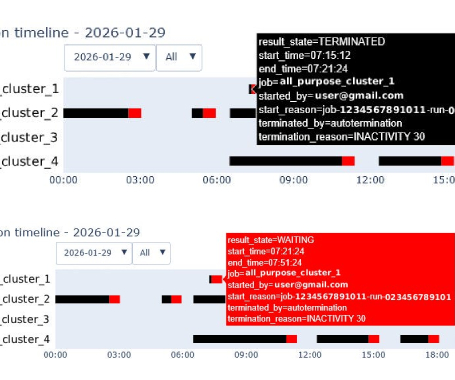
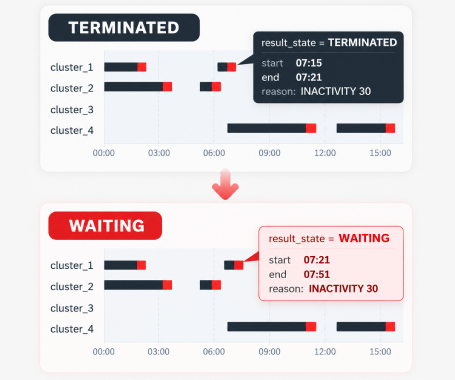
upd

diff --git a/public/features/index.html b/public/features/index.html
@@ -11,7 +11,7 @@
   <link rel="icon" href="/favicon.ico" sizes="32x32" />
   <link rel="icon" href="/img/favicon.svg" type="image/svg+xml" />
   <link rel="apple-touch-icon" href="/apple-touch-icon.png" />
-  <link rel="stylesheet" href="/styles.css?v=054" />
+  <link rel="stylesheet" href="/styles.css?v=056" />
   <script src="/menu.js?v=003" defer></script>
   <meta property="og:type" content="website" />
   <meta property="og:site_name" content="FinOpsWay" />
@@ -73,6 +73,7 @@
       <p class="feature-cta"><strong>Get started:</strong> <a href="/onboarding/">Connect your workspace</a> or explore <a href="#other-features-title">all FinOpsWay features</a>.</p>
       <section class="feature-download" aria-labelledby="feature-download-title"><h2 id="feature-download-title">Add FinOpsWay to your browser</h2><p>Install the free extension from your browser’s store. No FinOpsWay account is required.</p><div class="download-grid"><a class="download-card" href="https://chromewebstore.google.com/detail/finopsway-costs/lpfecokigmjdmdcfleiebiainkndhooi" target="_blank" rel="noopener"><span class="browser-icon"><img src="/img/google_chrome.svg" alt="" /></span><span class="download-card-copy"><span class="download-card-label">Available for</span><strong>Google Chrome</strong><span class="download-card-action">Get the extension <span aria-hidden="true">↗</span></span></span></a><a class="download-card" href="https://chromewebstore.google.com/detail/finopsway-costs/lpfecokigmjdmdcfleiebiainkndhooi" target="_blank" rel="noopener"><span class="browser-icon"><img src="/img/edge.svg" alt="" /></span><span class="download-card-copy"><span class="download-card-label">Available for</span><strong>Microsoft Edge</strong><span class="download-card-action">Get the extension <span aria-hidden="true">↗</span></span></span></a><a class="download-card" href="https://addons.mozilla.org/firefox/addon/finopsway-costs/" target="_blank" rel="noopener"><span class="browser-icon"><img src="/img/firefox.svg" alt="" /></span><span class="download-card-copy"><span class="download-card-label">Available for</span><strong>Mozilla Firefox</strong><span class="download-card-action">Get the extension <span aria-hidden="true">↗</span></span></span></a></div><p class="note">Microsoft Edge uses the Chrome Web Store listing.</p></section>
     </div>
+    <aside class="feature-sidebar" aria-label="All FinOpsWay features"><p class="feature-sidebar-title">All features</p><nav><a href="/features/" aria-current="page">Cost Banner</a><a href="/features/databricks-cluster-costs/">Cluster Costs</a><a href="/features/databricks-sql-warehouse-costs/">SQL Warehouse Costs</a><a href="/features/databricks-job-costs/">Job and Pipeline Costs</a><a href="/features/databricks-job-cluster-costs/">Job Cluster Costs</a><a href="/features/databricks-job-run-costs/">Job Run Costs</a><a href="/features/databricks-notebook-costs/">Notebook Costs</a><a href="/features/databricks-apps-costs/">Apps Costs</a><a href="/features/databricks-lakebase-costs/">Lakebase Costs</a><a href="/features/databricks-genie-agent-usage/">Genie Agent Costs</a></nav></aside>
   </main>
   <footer class="footer"><div class="bar"><div class="footer-id"><span class="wordmark small"><img class="wm-s" src="/img/FinOpsWay_logo.png" width="574" height="120" alt="FinOpsWay" /></span></div><nav class="nav"><a href="/features/">Features</a><a href="/security/">Security</a><a href="/cost-methodology/">Cost methodology</a><a href="/privacy/">Privacy policy</a></nav></div><p class="legal">Not affiliated with Databricks, Inc. Trademarks belong to their owners.</p></footer>
 </body>

diff --git a/public/styles.css b/public/styles.css
@@ -1168,8 +1168,21 @@ picture { display: contents; }
 .table-note { margin-top: 16px; color: var(--fg-soft); font-size: 14px; line-height: 1.5; }
 .feature-cta { margin: 20px 0 0; color: var(--fg-soft); font-size: 15px; }
 .feature-cta a { font-weight: 800; }
+.article-page.feature-page { max-width: calc(1120px + var(--pad) * 2); display: grid; grid-template-columns: minmax(0, 1fr) 248px; column-gap: clamp(32px, 5vw, 64px); align-items: start; }
+.feature-page .article-hero { grid-column: 1 / -1; }
+.feature-page .article-body { grid-column: 1; min-width: 0; }
+.feature-sidebar { position: sticky; top: 104px; grid-column: 2; grid-row: 2; max-height: calc(100vh - 124px); overflow-y: auto; padding: 20px; border-radius: 16px; background: var(--brand); color: #fff; }
+.feature-sidebar-title { margin: 0 0 12px; font-size: 13px; font-weight: 800; letter-spacing: .08em; text-transform: uppercase; }
+.feature-sidebar nav { display: grid; gap: 2px; }
+.feature-sidebar a { display: block; padding: 7px 9px; border-radius: 7px; color: rgb(255 255 255 / 84%); font-size: 14px; font-weight: 650; line-height: 1.3; text-decoration: none; }
+.feature-sidebar a:hover, .feature-sidebar a:focus-visible { background: rgb(255 255 255 / 14%); color: #fff; }
+.feature-sidebar a[aria-current="page"] { background: #fff; color: var(--brand-ink); }
 @media (max-width: 680px) {
   .feature-grid { grid-template-columns: 1fr; }
+}
+@media (max-width: 960px) {
+  .feature-page { display: block; }
+  .feature-sidebar { display: none; }
 }
 
 /* Articles */
@@ -1201,6 +1214,7 @@ picture { display: contents; }
 .article-body figure { margin: 36px 0; }
 .article-body figure img { display: block; width: 70%; height: auto; margin-inline: auto; border: 1px solid var(--border); border-radius: 12px; background: var(--pale); }
 .article-body figcaption { margin-top: 9px; color: var(--fg-soft); font-size: 14px; line-height: 1.4; }
+.feature-page .article-body figcaption { text-align: center; }
 .article-body pre { overflow-x: auto; margin: 24px 0; padding: 18px; border-radius: 10px; background: #172821; color: #f1f7f2; font-size: 14px; line-height: 1.55; }
 .article-body pre code { margin: 0; padding: 0; background: none; color: inherit; }
 .article-body ul { margin: 0; padding-left: 23px; }

diff --git a/public/guides/all-purpose-cluster-monitoring/index.html b/public/guides/all-purpose-cluster-monitoring/index.html
@@ -7,7 +7,7 @@
   <title>Monitor All-Purpose Cluster Idle Time | FinOpsWay</title>
   <meta name="description" content="Use Databricks cluster events to find all-purpose clusters that spend too long waiting for auto termination." />
   <link rel="icon" href="/favicon.ico" sizes="32x32" /><link rel="icon" href="/img/favicon.svg" type="image/svg+xml" /><link rel="apple-touch-icon" href="/apple-touch-icon.png" />
-  <link rel="stylesheet" href="../../styles.css?v=054" /><script src="../../menu.js?v=003" defer></script>
+  <link rel="stylesheet" href="../../styles.css?v=056" /><script src="../../menu.js?v=003" defer></script>
   <link rel="canonical" href="https://finopsway.com/guides/all-purpose-cluster-monitoring/" /><meta name="robots" content="index, follow, max-image-preview:large" />
   <meta property="og:type" content="article" /><meta property="og:site_name" content="FinOpsWay" /><meta property="og:locale" content="en_US" /><meta property="og:url" content="https://finopsway.com/guides/all-purpose-cluster-monitoring/" /><meta property="og:title" content="Databricks Cost Optimization: Monitor All-Purpose Cluster Idle Time" /><meta property="og:description" content="Use Databricks cluster events to find scheduled jobs on all-purpose clusters, expose idle timeout cost and prevent the pattern with policies." /><meta property="og:image" content="https://finopsway.com/guides/all-purpose-cluster-monitoring/images/original_1.jpg" /><meta property="og:image:alt" content="Databricks all-purpose cluster cost comparison and timeline" /><meta property="article:published_time" content="2026-02-02" /><meta property="article:modified_time" content="2026-10-05" /><meta property="article:author" content="https://www.linkedin.com/in/protmaks/" />
   <meta name="twitter:card" content="summary_large_image" /><meta name="twitter:title" content="Databricks Cost Optimization: Monitor All-Purpose Cluster Idle Time" /><meta name="twitter:description" content="Find scheduled jobs on all-purpose clusters, expose idle timeout cost and prevent the pattern with policies." /><meta name="twitter:image" content="https://finopsway.com/guides/all-purpose-cluster-monitoring/images/original_1.jpg" />

diff --git a/public/guides/databricks-cost-transparency/index.html b/public/guides/databricks-cost-transparency/index.html
@@ -7,7 +7,7 @@
   <title>Databricks Cost Transparency Without Exposing SQL | FinOpsWay</title>
   <meta name="description" content="Databricks cost data can be shared more broadly while keeping query text protected by default." />
   <link rel="icon" href="/favicon.ico" sizes="32x32" /><link rel="icon" href="/img/favicon.svg" type="image/svg+xml" /><link rel="apple-touch-icon" href="/apple-touch-icon.png" />
-  <link rel="stylesheet" href="../../styles.css?v=054" /><script src="../../menu.js?v=003" defer></script>
+  <link rel="stylesheet" href="../../styles.css?v=056" /><script src="../../menu.js?v=003" defer></script>
   <link rel="canonical" href="https://finopsway.com/guides/databricks-cost-transparency/" /><meta name="robots" content="index, follow, max-image-preview:large" />
   <meta property="og:type" content="article" /><meta property="og:site_name" content="FinOpsWay" /><meta property="og:locale" content="en_US" /><meta property="og:url" content="https://finopsway.com/guides/databricks-cost-transparency/" /><meta property="og:title" content="Databricks Cost Transparency Without Exposing SQL" /><meta property="og:description" content="Share Databricks cost data with engineers while keeping query text protected by default." /><meta property="og:image" content="https://finopsway.com/guides/databricks-cost-transparency/images/original_1.jpg" /><meta property="og:image:alt" content="Databricks cost transparency dashboard" /><meta property="article:published_time" content="2026-09-15" /><meta property="article:modified_time" content="2026-10-05" /><meta property="article:author" content="https://www.linkedin.com/in/protmaks/" />
   <meta name="twitter:card" content="summary_large_image" /><meta name="twitter:title" content="Databricks Cost Transparency Without Exposing SQL" /><meta name="twitter:description" content="Share Databricks cost data with engineers while keeping query text protected by default." /><meta name="twitter:image" content="https://finopsway.com/guides/databricks-cost-transparency/images/original_1.jpg" />

diff --git a/public/features/databricks-lakebase-costs/index.html b/public/features/databricks-lakebase-costs/index.html
@@ -11,7 +11,7 @@
   <link rel="icon" href="/favicon.ico" sizes="32x32" />
   <link rel="icon" href="/img/favicon.svg" type="image/svg+xml" />
   <link rel="apple-touch-icon" href="/apple-touch-icon.png" />
-  <link rel="stylesheet" href="/styles.css?v=054" />
+  <link rel="stylesheet" href="/styles.css?v=056" />
   <script src="/menu.js?v=003" defer></script>
   <meta property="og:type" content="website" />
   <meta property="og:site_name" content="FinOpsWay" />
@@ -121,6 +121,7 @@
         <p class="note">Microsoft Edge uses the Chrome Web Store listing.</p>
       </section>
     </div>
+    <aside class="feature-sidebar" aria-label="All FinOpsWay features"><p class="feature-sidebar-title">All features</p><nav><a href="/features/">Cost Banner</a><a href="/features/databricks-cluster-costs/">Cluster Costs</a><a href="/features/databricks-sql-warehouse-costs/">SQL Warehouse Costs</a><a href="/features/databricks-job-costs/">Job and Pipeline Costs</a><a href="/features/databricks-job-cluster-costs/">Job Cluster Costs</a><a href="/features/databricks-job-run-costs/">Job Run Costs</a><a href="/features/databricks-notebook-costs/">Notebook Costs</a><a href="/features/databricks-apps-costs/">Apps Costs</a><a href="/features/databricks-lakebase-costs/" aria-current="page">Lakebase Costs</a><a href="/features/databricks-genie-agent-usage/">Genie Agent Costs</a></nav></aside>
   </main>
   <footer class="footer"><div class="bar"><div class="footer-id"><span class="wordmark small"><img class="wm-s" src="/img/FinOpsWay_logo.png" width="574" height="120" alt="FinOpsWay" /></span></div><nav class="nav"><a href="/features/">Features</a><a href="/security/">Security</a><a href="/cost-methodology/">Cost methodology</a><a href="/privacy/">Privacy policy</a></nav></div><p class="legal">Not affiliated with Databricks, Inc. Trademarks belong to their owners.</p></footer>
 </body>

diff --git a/public/features/databricks-apps-costs/index.html b/public/features/databricks-apps-costs/index.html
@@ -11,7 +11,7 @@
   <link rel="icon" href="/favicon.ico" sizes="32x32" />
   <link rel="icon" href="/img/favicon.svg" type="image/svg+xml" />
   <link rel="apple-touch-icon" href="/apple-touch-icon.png" />
-  <link rel="stylesheet" href="/styles.css?v=054" />
+  <link rel="stylesheet" href="/styles.css?v=056" />
   <script src="/menu.js?v=003" defer></script>
   <meta property="og:type" content="website" />
   <meta property="og:site_name" content="FinOpsWay" />
@@ -89,6 +89,7 @@
         <p class="note">Microsoft Edge uses the Chrome Web Store listing.</p>
       </section>
     </div>
+    <aside class="feature-sidebar" aria-label="All FinOpsWay features"><p class="feature-sidebar-title">All features</p><nav><a href="/features/">Cost Banner</a><a href="/features/databricks-cluster-costs/">Cluster Costs</a><a href="/features/databricks-sql-warehouse-costs/">SQL Warehouse Costs</a><a href="/features/databricks-job-costs/">Job and Pipeline Costs</a><a href="/features/databricks-job-cluster-costs/">Job Cluster Costs</a><a href="/features/databricks-job-run-costs/">Job Run Costs</a><a href="/features/databricks-notebook-costs/">Notebook Costs</a><a href="/features/databricks-apps-costs/" aria-current="page">Apps Costs</a><a href="/features/databricks-lakebase-costs/">Lakebase Costs</a><a href="/features/databricks-genie-agent-usage/">Genie Agent Costs</a></nav></aside>
   </main>
   <footer class="footer"><div class="bar"><div class="footer-id"><span class="wordmark small"><img class="wm-s" src="/img/FinOpsWay_logo.png" width="574" height="120" alt="FinOpsWay" /></span></div><nav class="nav"><a href="/features/">Features</a><a href="/security/">Security</a><a href="/cost-methodology/">Cost methodology</a><a href="/privacy/">Privacy policy</a></nav></div><p class="legal">Not affiliated with Databricks, Inc. Trademarks belong to their owners.</p></footer>
 </body>

diff --git a/public/features/databricks-cluster-costs/index.html b/public/features/databricks-cluster-costs/index.html
@@ -11,7 +11,7 @@
   <link rel="icon" href="/favicon.ico" sizes="32x32" />
   <link rel="icon" href="/img/favicon.svg" type="image/svg+xml" />
   <link rel="apple-touch-icon" href="/apple-touch-icon.png" />
-  <link rel="stylesheet" href="/styles.css?v=054" />
+  <link rel="stylesheet" href="/styles.css?v=056" />
   <script src="/menu.js?v=003" defer></script>
   <meta property="og:type" content="website" />
   <meta property="og:site_name" content="FinOpsWay" />
@@ -90,6 +90,7 @@
         <p class="note">Microsoft Edge uses the Chrome Web Store listing.</p>
       </section>
     </div>
+    <aside class="feature-sidebar" aria-label="All FinOpsWay features"><p class="feature-sidebar-title">All features</p><nav><a href="/features/">Cost Banner</a><a href="/features/databricks-cluster-costs/" aria-current="page">Cluster Costs</a><a href="/features/databricks-sql-warehouse-costs/">SQL Warehouse Costs</a><a href="/features/databricks-job-costs/">Job and Pipeline Costs</a><a href="/features/databricks-job-cluster-costs/">Job Cluster Costs</a><a href="/features/databricks-job-run-costs/">Job Run Costs</a><a href="/features/databricks-notebook-costs/">Notebook Costs</a><a href="/features/databricks-apps-costs/">Apps Costs</a><a href="/features/databricks-lakebase-costs/">Lakebase Costs</a><a href="/features/databricks-genie-agent-usage/">Genie Agent Costs</a></nav></aside>
   </main>
   <footer class="footer"><div class="bar"><div class="footer-id"><span class="wordmark small"><img class="wm-s" src="/img/FinOpsWay_logo.png" width="574" height="120" alt="FinOpsWay" /></span></div><nav class="nav"><a href="/features/">Features</a><a href="/security/">Security</a><a href="/cost-methodology/">Cost methodology</a><a href="/privacy/">Privacy policy</a></nav></div><p class="legal">Not affiliated with Databricks, Inc. Trademarks belong to their owners.</p></footer>
 </body>

diff --git a/public/features/databricks-genie-agent-usage/index.html b/public/features/databricks-genie-agent-usage/index.html
@@ -11,7 +11,7 @@
   <link rel="icon" href="/favicon.ico" sizes="32x32" />
   <link rel="icon" href="/img/favicon.svg" type="image/svg+xml" />
   <link rel="apple-touch-icon" href="/apple-touch-icon.png" />
-  <link rel="stylesheet" href="/styles.css?v=054" />
+  <link rel="stylesheet" href="/styles.css?v=056" />
   <script src="/menu.js?v=003" defer></script>
   <meta property="og:type" content="website" />
   <meta property="og:site_name" content="FinOpsWay" />
@@ -90,6 +90,7 @@
         <p class="note">Microsoft Edge uses the Chrome Web Store listing.</p>
       </section>
     </div>
+    <aside class="feature-sidebar" aria-label="All FinOpsWay features"><p class="feature-sidebar-title">All features</p><nav><a href="/features/">Cost Banner</a><a href="/features/databricks-cluster-costs/">Cluster Costs</a><a href="/features/databricks-sql-warehouse-costs/">SQL Warehouse Costs</a><a href="/features/databricks-job-costs/">Job and Pipeline Costs</a><a href="/features/databricks-job-cluster-costs/">Job Cluster Costs</a><a href="/features/databricks-job-run-costs/">Job Run Costs</a><a href="/features/databricks-notebook-costs/">Notebook Costs</a><a href="/features/databricks-apps-costs/">Apps Costs</a><a href="/features/databricks-lakebase-costs/">Lakebase Costs</a><a href="/features/databricks-genie-agent-usage/" aria-current="page">Genie Agent Costs</a></nav></aside>
   </main>
   <footer class="footer"><div class="bar"><div class="footer-id"><span class="wordmark small"><img class="wm-s" src="/img/FinOpsWay_logo.png" width="574" height="120" alt="FinOpsWay" /></span></div><nav class="nav"><a href="/features/">Features</a><a href="/security/">Security</a><a href="/cost-methodology/">Cost methodology</a><a href="/privacy/">Privacy policy</a></nav></div><p class="legal">Not affiliated with Databricks, Inc. Trademarks belong to their owners.</p></footer>
 </body>

diff --git a/public/features/databricks-job-cluster-costs/index.html b/public/features/databricks-job-cluster-costs/index.html
@@ -11,7 +11,7 @@
   <link rel="icon" href="/favicon.ico" sizes="32x32" />
   <link rel="icon" href="/img/favicon.svg" type="image/svg+xml" />
   <link rel="apple-touch-icon" href="/apple-touch-icon.png" />
-  <link rel="stylesheet" href="/styles.css?v=054" />
+  <link rel="stylesheet" href="/styles.css?v=056" />
   <script src="/menu.js?v=003" defer></script>
   <meta property="og:type" content="website" />
   <meta property="og:site_name" content="FinOpsWay" />
@@ -87,6 +87,7 @@
         <p class="note">Microsoft Edge uses the Chrome Web Store listing.</p>
       </section>
     </div>
+    <aside class="feature-sidebar" aria-label="All FinOpsWay features"><p class="feature-sidebar-title">All features</p><nav><a href="/features/">Cost Banner</a><a href="/features/databricks-cluster-costs/">Cluster Costs</a><a href="/features/databricks-sql-warehouse-costs/">SQL Warehouse Costs</a><a href="/features/databricks-job-costs/">Job and Pipeline Costs</a><a href="/features/databricks-job-cluster-costs/" aria-current="page">Job Cluster Costs</a><a href="/features/databricks-job-run-costs/">Job Run Costs</a><a href="/features/databricks-notebook-costs/">Notebook Costs</a><a href="/features/databricks-apps-costs/">Apps Costs</a><a href="/features/databricks-lakebase-costs/">Lakebase Costs</a><a href="/features/databricks-genie-agent-usage/">Genie Agent Costs</a></nav></aside>
   </main>
   <footer class="footer"><div class="bar"><div class="footer-id"><span class="wordmark small"><img class="wm-s" src="/img/FinOpsWay_logo.png" width="574" height="120" alt="FinOpsWay" /></span></div><nav class="nav"><a href="/features/">Features</a><a href="/security/">Security</a><a href="/cost-methodology/">Cost methodology</a><a href="/privacy/">Privacy policy</a></nav></div><p class="legal">Not affiliated with Databricks, Inc. Trademarks belong to their owners.</p></footer>
 </body>

diff --git a/public/features/databricks-job-costs/index.html b/public/features/databricks-job-costs/index.html
@@ -11,7 +11,7 @@
   <link rel="icon" href="/favicon.ico" sizes="32x32" />
   <link rel="icon" href="/img/favicon.svg" type="image/svg+xml" />
   <link rel="apple-touch-icon" href="/apple-touch-icon.png" />
-  <link rel="stylesheet" href="/styles.css?v=054" />
+  <link rel="stylesheet" href="/styles.css?v=056" />
   <script src="/menu.js?v=003" defer></script>
   <meta property="og:type" content="website" />
   <meta property="og:site_name" content="FinOpsWay" />
@@ -92,6 +92,7 @@
         <p class="note">Microsoft Edge uses the Chrome Web Store listing.</p>
       </section>
     </div>
+    <aside class="feature-sidebar" aria-label="All FinOpsWay features"><p class="feature-sidebar-title">All features</p><nav><a href="/features/">Cost Banner</a><a href="/features/databricks-cluster-costs/">Cluster Costs</a><a href="/features/databricks-sql-warehouse-costs/">SQL Warehouse Costs</a><a href="/features/databricks-job-costs/" aria-current="page">Job and Pipeline Costs</a><a href="/features/databricks-job-cluster-costs/">Job Cluster Costs</a><a href="/features/databricks-job-run-costs/">Job Run Costs</a><a href="/features/databricks-notebook-costs/">Notebook Costs</a><a href="/features/databricks-apps-costs/">Apps Costs</a><a href="/features/databricks-lakebase-costs/">Lakebase Costs</a><a href="/features/databricks-genie-agent-usage/">Genie Agent Costs</a></nav></aside>
   </main>
   <footer class="footer"><div class="bar"><div class="footer-id"><span class="wordmark small"><img class="wm-s" src="/img/FinOpsWay_logo.png" width="574" height="120" alt="FinOpsWay" /></span></div><nav class="nav"><a href="/features/">Features</a><a href="/security/">Security</a><a href="/cost-methodology/">Cost methodology</a><a href="/privacy/">Privacy policy</a></nav></div><p class="legal">Not affiliated with Databricks, Inc. Trademarks belong to their owners.</p></footer>
 </body>

diff --git a/public/features/databricks-job-run-costs/index.html b/public/features/databricks-job-run-costs/index.html
@@ -11,7 +11,7 @@
   <link rel="icon" href="/favicon.ico" sizes="32x32" />
   <link rel="icon" href="/img/favicon.svg" type="image/svg+xml" />
   <link rel="apple-touch-icon" href="/apple-touch-icon.png" />
-  <link rel="stylesheet" href="/styles.css?v=054" />
+  <link rel="stylesheet" href="/styles.css?v=056" />
   <script src="/menu.js?v=003" defer></script>
   <meta property="og:type" content="website" />
   <meta property="og:site_name" content="FinOpsWay" />
@@ -88,6 +88,7 @@
         <p class="note">Microsoft Edge uses the Chrome Web Store listing.</p>
       </section>
     </div>
+    <aside class="feature-sidebar" aria-label="All FinOpsWay features"><p class="feature-sidebar-title">All features</p><nav><a href="/features/">Cost Banner</a><a href="/features/databricks-cluster-costs/">Cluster Costs</a><a href="/features/databricks-sql-warehouse-costs/">SQL Warehouse Costs</a><a href="/features/databricks-job-costs/">Job and Pipeline Costs</a><a href="/features/databricks-job-cluster-costs/">Job Cluster Costs</a><a href="/features/databricks-job-run-costs/" aria-current="page">Job Run Costs</a><a href="/features/databricks-notebook-costs/">Notebook Costs</a><a href="/features/databricks-apps-costs/">Apps Costs</a><a href="/features/databricks-lakebase-costs/">Lakebase Costs</a><a href="/features/databricks-genie-agent-usage/">Genie Agent Costs</a></nav></aside>
   </main>
   <footer class="footer"><div class="bar"><div class="footer-id"><span class="wordmark small"><img class="wm-s" src="/img/FinOpsWay_logo.png" width="574" height="120" alt="FinOpsWay" /></span></div><nav class="nav"><a href="/features/">Features</a><a href="/security/">Security</a><a href="/cost-methodology/">Cost methodology</a><a href="/privacy/">Privacy policy</a></nav></div><p class="legal">Not affiliated with Databricks, Inc. Trademarks belong to their owners.</p></footer>
 </body>

diff --git a/public/features/databricks-notebook-costs/index.html b/public/features/databricks-notebook-costs/index.html
@@ -11,7 +11,7 @@
   <link rel="icon" href="/favicon.ico" sizes="32x32" />
   <link rel="icon" href="/img/favicon.svg" type="image/svg+xml" />
   <link rel="apple-touch-icon" href="/apple-touch-icon.png" />
-  <link rel="stylesheet" href="/styles.css?v=054" />
+  <link rel="stylesheet" href="/styles.css?v=056" />
   <script src="/menu.js?v=003" defer></script>
   <meta property="og:type" content="website" />
   <meta property="og:site_name" content="FinOpsWay" />
@@ -91,6 +91,7 @@
         <p class="note">Microsoft Edge uses the Chrome Web Store listing.</p>
       </section>
     </div>
+    <aside class="feature-sidebar" aria-label="All FinOpsWay features"><p class="feature-sidebar-title">All features</p><nav><a href="/features/">Cost Banner</a><a href="/features/databricks-cluster-costs/">Cluster Costs</a><a href="/features/databricks-sql-warehouse-costs/">SQL Warehouse Costs</a><a href="/features/databricks-job-costs/">Job and Pipeline Costs</a><a href="/features/databricks-job-cluster-costs/">Job Cluster Costs</a><a href="/features/databricks-job-run-costs/">Job Run Costs</a><a href="/features/databricks-notebook-costs/" aria-current="page">Notebook Costs</a><a href="/features/databricks-apps-costs/">Apps Costs</a><a href="/features/databricks-lakebase-costs/">Lakebase Costs</a><a href="/features/databricks-genie-agent-usage/">Genie Agent Costs</a></nav></aside>
   </main>
   <footer class="footer"><div class="bar"><div class="footer-id"><span class="wordmark small"><img class="wm-s" src="/img/FinOpsWay_logo.png" width="574" height="120" alt="FinOpsWay" /></span></div><nav class="nav"><a href="/features/">Features</a><a href="/security/">Security</a><a href="/cost-methodology/">Cost methodology</a><a href="/privacy/">Privacy policy</a></nav></div><p class="legal">Not affiliated with Databricks, Inc. Trademarks belong to their owners.</p></footer>
 </body>
